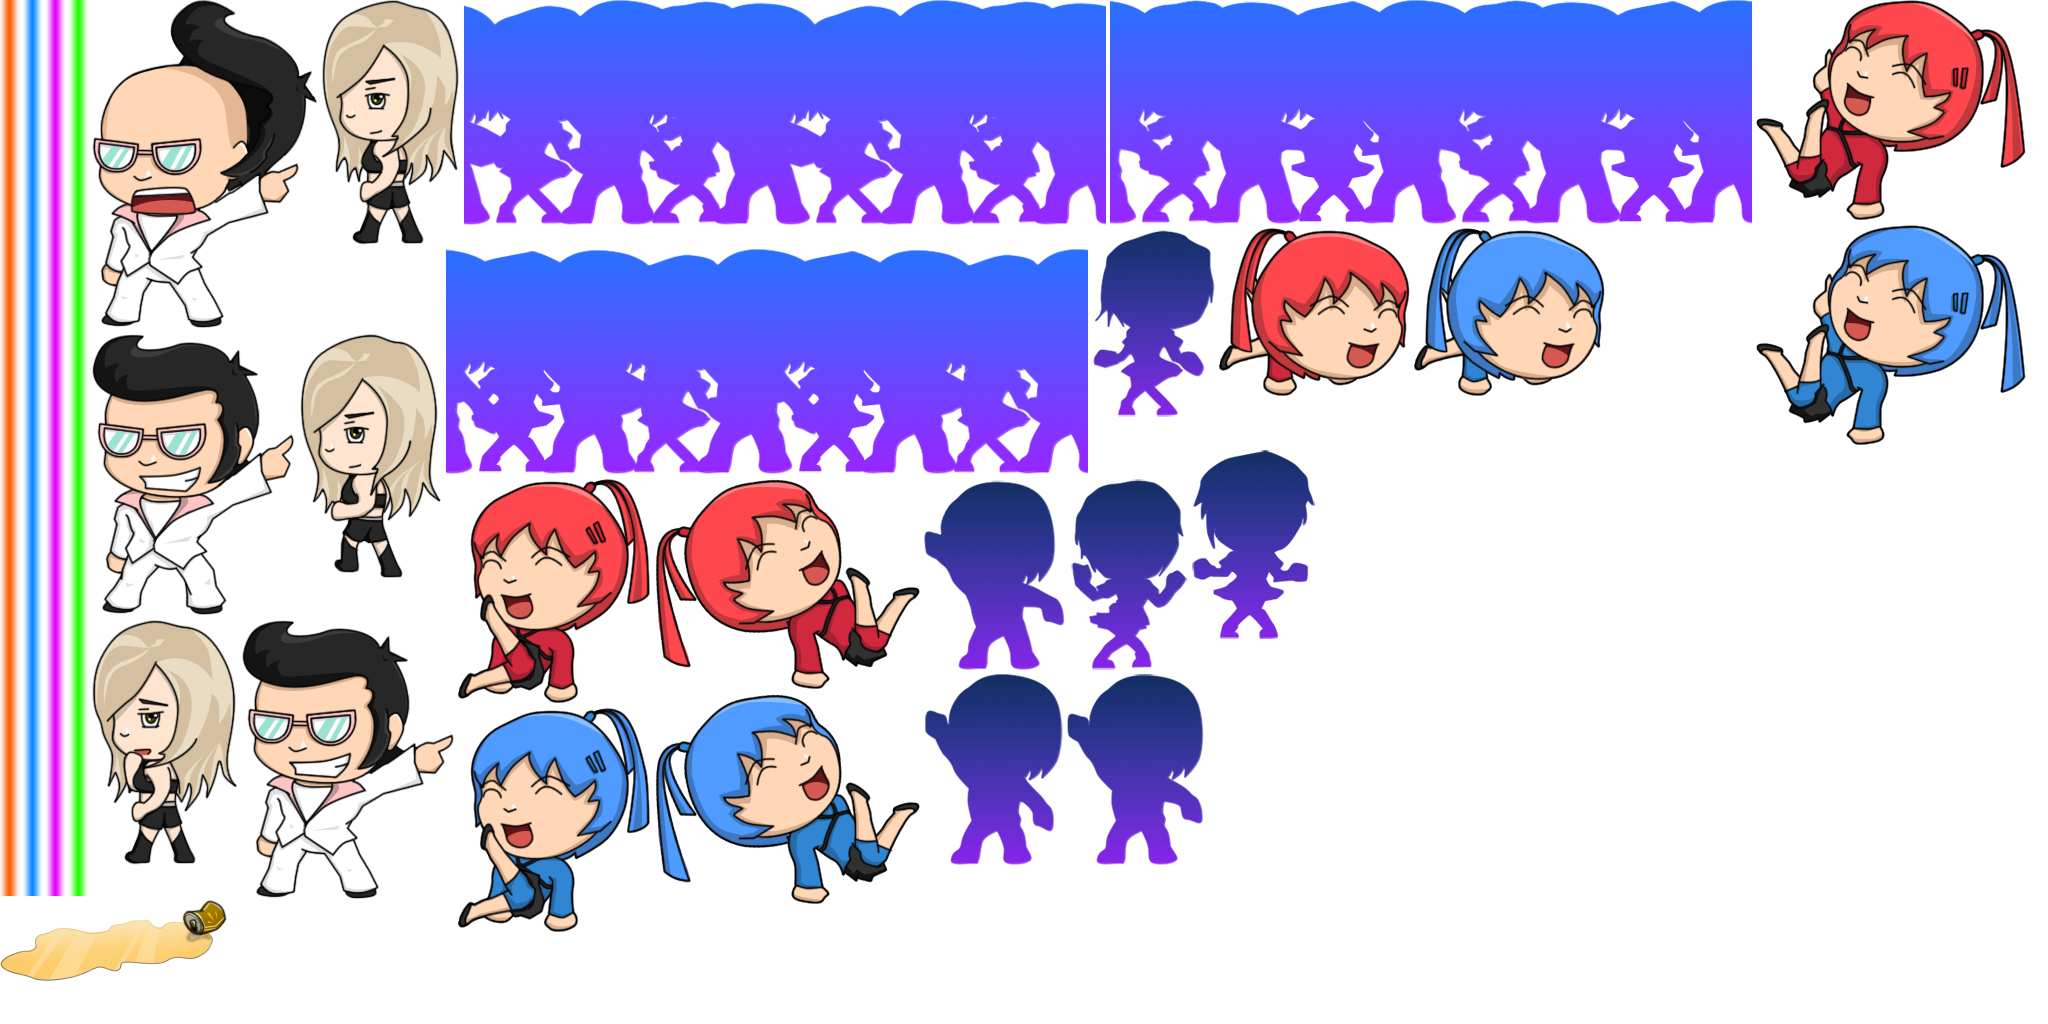
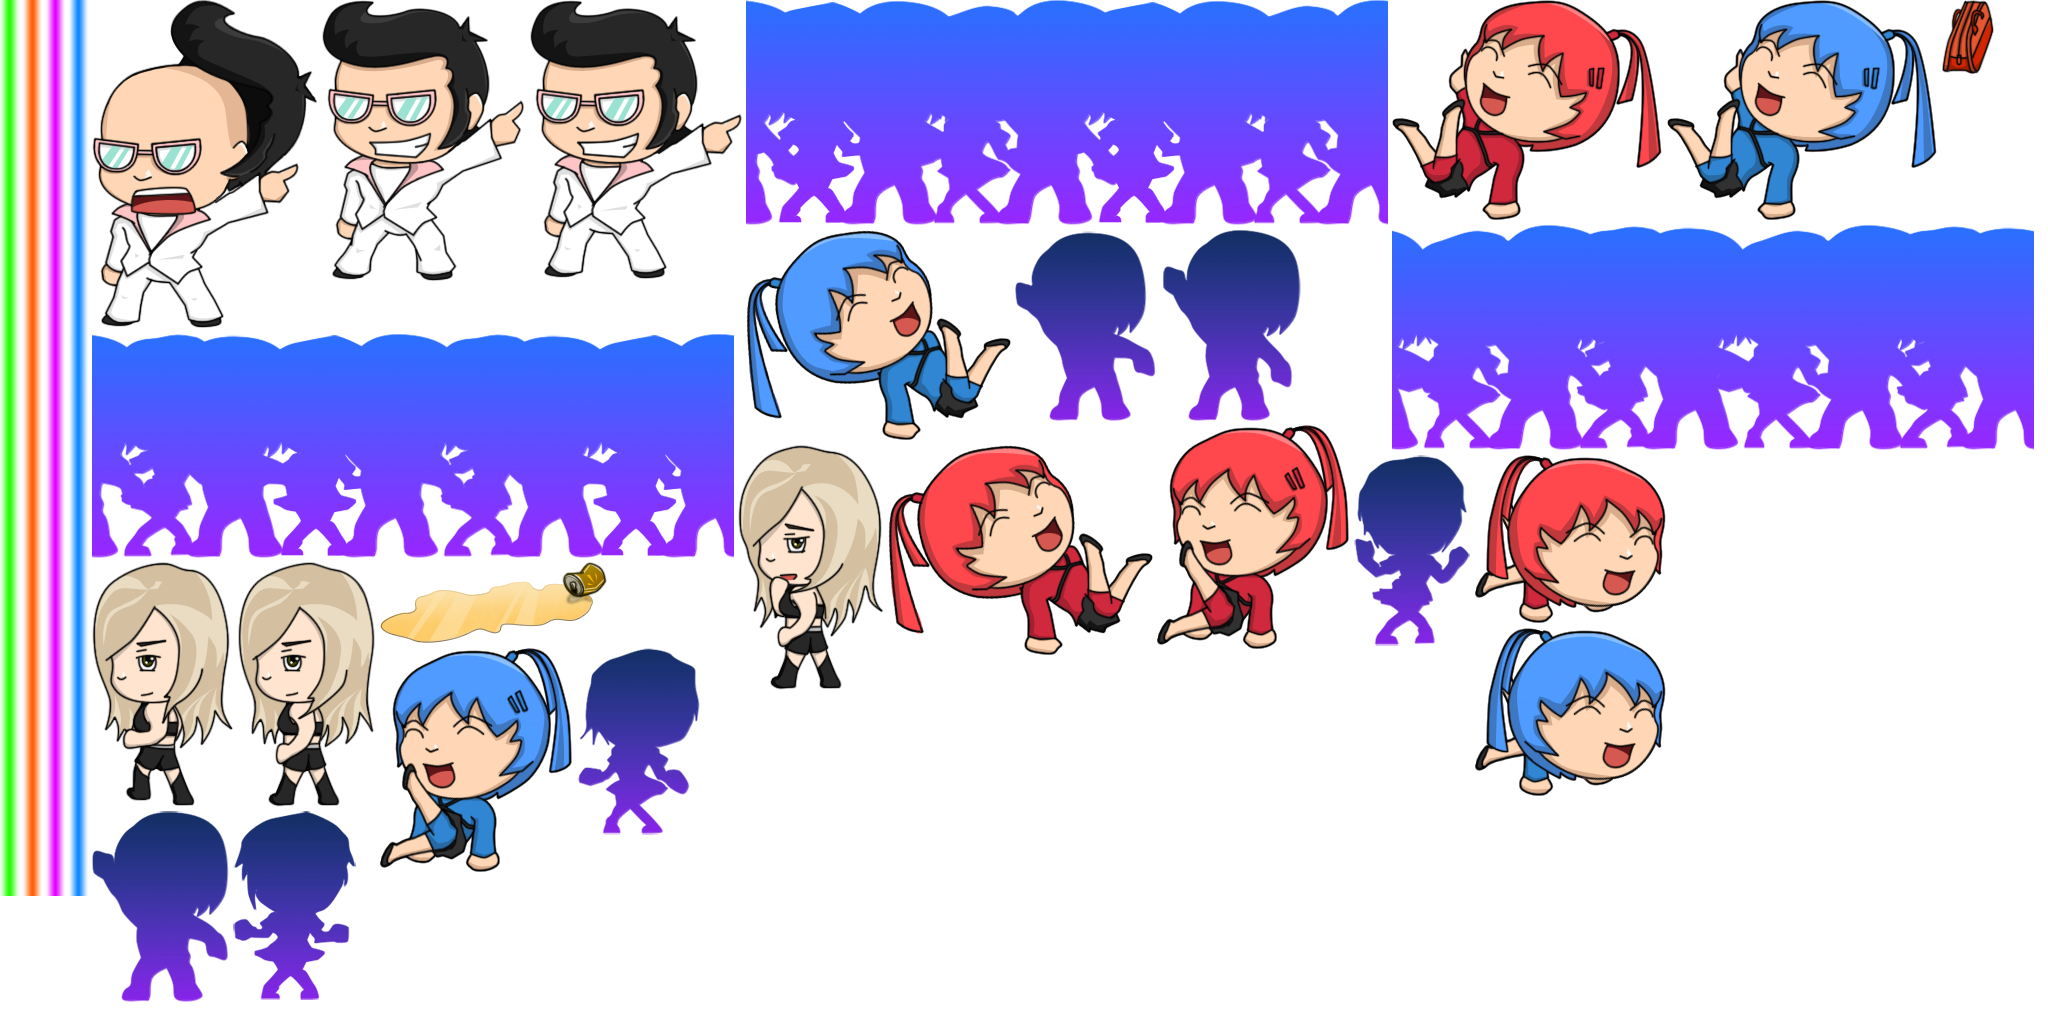
Added purse to level 4. Bounding box still not working.

diff --git a/Clay/Classes/Base/GCHelper.m b/Clay/Classes/Base/GCHelper.m
@@ -30,6 +30,7 @@ static GCHelper *sharedHelper = nil;
                 [[self alloc] initWithLeaderboardToReport:[NSMutableArray array] achievementsToReport:[NSMutableArray array]];
             }
         }
+        NSLog(@"shared GCHelper");
         return sharedHelper;
     }
     return nil;
@@ -47,10 +48,12 @@ static GCHelper *sharedHelper = nil;
 }
 
 -(void)save {
+    NSLog(@"gc - save");
     saveData(self, @"GameCenterData");
 }
 
 -(BOOL)isGameCenterAvailable {
+    NSLog(@"gc - isgamecenteravailable");
     // check for GKLocalPlayer API
     Class gcClass = (NSClassFromString(@"GKLocalPlayer"));
     
@@ -63,6 +66,7 @@ static GCHelper *sharedHelper = nil;
 }
 
 - (id)initWithLeaderboardToReport:(NSMutableArray *)theLeaderboardToReport achievementsToReport:(NSMutableArray *)theAchievementsToReport {
+    NSLog(@"gc - initwithleaderboardtoreport");
     if ((self = [super init])) {
         self.leaderboardToReport = theLeaderboardToReport;
         self.achievementsToReport = theAchievementsToReport;
@@ -78,6 +82,7 @@ static GCHelper *sharedHelper = nil;
 #pragma  mark Internal Functions
 
 - (void)authenticationChanged {
+    NSLog(@"gc - authenticationchanged");
     dispatch_async(dispatch_get_main_queue(), ^(void)
                    {
                        if ([GKLocalPlayer localPlayer].isAuthenticated && !userAuthenticated) {
@@ -93,6 +98,7 @@ static GCHelper *sharedHelper = nil;
 }
 
 -(void)sendAchievement:(GKAchievement *)achievement {
+    NSLog(@"gc - sendachievement");
    // achievement.percentComplete = 100.0;   //Indicates the achievement is done
     achievement.showsCompletionBanner = YES;    //Indicate that a banner should be shown
     [achievement reportAchievementWithCompletionHandler:^(NSError *error) {
@@ -108,6 +114,7 @@ static GCHelper *sharedHelper = nil;
     }];
 }
 -(void)sendScore:(GKScore *)score {
+    NSLog(@"gc - sendscore");
     [score reportScoreWithCompletionHandler:^(NSError *error) {
         dispatch_async(dispatch_get_main_queue(), ^(void)
                        {
@@ -122,6 +129,7 @@ static GCHelper *sharedHelper = nil;
 }
 
 -(void)resendData {
+    NSLog(@"gc - resenddata");
     for (GKAchievement *achievement in achievementsToReport) {
         [self sendAchievement:achievement];
     }
@@ -133,6 +141,7 @@ static GCHelper *sharedHelper = nil;
 #pragma mark User functions
 
 - (void)authenticateLocalUser {
+    NSLog(@"gc - authenticatelocaluser");
     if (!gameCenterAvailable) return;
     
     //NSLog(@"Authenticating local user...");
@@ -148,6 +157,7 @@ static GCHelper *sharedHelper = nil;
 }
 
 - (void)reportLeaderboard:(NSString *)identifier score:(float)rawScore {
+    NSLog(@"gc - reportleaderboard");
     GKScore *score=[[[GKScore alloc] initWithCategory:identifier] autorelease];
     score.value=rawScore;
     [leaderboardToReport addObject:score];
@@ -157,6 +167,7 @@ static GCHelper *sharedHelper = nil;
 }
 
 - (void)reportAchievement:(NSString *)identifier percentComplete:(double)percentComplete {
+    NSLog(@"gc - reportachievement");
     GKAchievement* achievement = [[[GKAchievement alloc] initWithIdentifier:identifier] autorelease];
     achievement.percentComplete = percentComplete;
     [achievementsToReport addObject:achievement];
@@ -169,6 +180,7 @@ static GCHelper *sharedHelper = nil;
 
 - (void) showLeaderboards
 {
+    NSLog(@"gc - showleaderboards");
     GKLeaderboardViewController *leaderboardController = [[GKLeaderboardViewController alloc] init] ;
     
     if (leaderboardController!=NULL) {
@@ -209,11 +221,13 @@ static GCHelper *sharedHelper = nil;
 #pragma mark NSCoding
 
 -(void)encodeWithCoder:(NSCoder *)encoder {
+    NSLog(@"gc - encodewithcoder");
     [encoder encodeObject:leaderboardToReport forKey:@"LeaderboardToReport"];
     [encoder encodeObject:achievementsToReport forKey:@"AchievementsToReport"];
 }
 
 -(id)initWithCoder:(NSCoder *)decoder {
+    NSLog(@"gc - initwithcoder");
     NSMutableArray * theLeaderboardToReport = [decoder decodeObjectForKey:@"LeaderboardToReport"];
     NSMutableArray * theAchievementsToReport = [decoder decodeObjectForKey:@"AchievementsToReport"];
     return [self initWithLeaderboardToReport:theLeaderboardToReport achievementsToReport:theAchievementsToReport];

diff --git a/Clay/Classes/Base/Camera.m b/Clay/Classes/Base/Camera.m
@@ -10,6 +10,7 @@
 #import "Sprite.h"
 #import "LevelManager.h"
 #import "Level.h"
+#import "Player.h"
 #import "GameSettings.h"
 
 @implementation Camera
@@ -40,6 +41,7 @@ static Camera *_sharedCamera = nil;
         CGSize size = [[CCDirector sharedDirector] winSize];
         _x = 0;
         _y = 0;
+        _vx = 0;
         _center = CGPointMake(size.width / 2.0f, size.height / 2.0f);
         _target = nil;
         
@@ -77,6 +79,9 @@ static Camera *_sharedCamera = nil;
     _precalculateBoundaryY = _boundary.origin.y;
     _precalculateBoundaryYplusBoundaryHeight = _boundary.origin.y + _boundary.size.height;
     
+    
+    _player = [[LayerManager sharedLayers] getPlayer];
+    
     [self keepWithinBoundaries];
     [self updateOnScreenRange];
 }
@@ -106,7 +111,7 @@ static Camera *_sharedCamera = nil;
     float left = _x - _center.x;
     float right = left + winSize.width;
     float bottom = _y - _center.y;
-    float top = bottom + winSize.height; 
+    float top = bottom + winSize.height;
     
     if(left < _boundary.origin.x) {
         _x = _boundary.origin.x + _center.x;
@@ -172,8 +177,45 @@ static Camera *_sharedCamera = nil;
     return (worldY - _y + _center.y);    
 }
 
+
+-(void)moveTowardsTargetNew:(float)dt
+{
+    //CGPoint position = [_target getPosition];
+    //float dx = (position.x - _x);
+    
+    //float speed = [_player getVelocityX];
+    
+    if(_trackingTarget) {
+        //_x = _target.
+    }
+    
+    /*
+    float distance = sqrtf(dx*dx);
+    if (distance > 0.1f) {
+        if (_trackingTarget) {
+            
+            if (dx > 0) {
+                _vx += 6.0f * dt;
+                _vx = MIN(40.0f, _vx);
+            } else {
+                _vx -= 6.0f * dt;
+                _vx = MAX(-40.0f, _vx);                
+            }
+            _x += _vx;         
+        }
+    } else {
+        if (_trackingTarget) {
+            _vx = 0.0f;
+            _x = position.x;            
+        }
+    }*/
+}
+
 -(void)moveTowardsTarget:(float)dt PlayerOnGround:(bool)onGround
 {
+    //[self moveTowardsTargetNew:dt];
+    //return;
+    
     float dx,dy;
     float magnitude;
     //float oldx = _x, oldy = _y;
@@ -218,7 +260,7 @@ static Camera *_sharedCamera = nil;
     
     [self updateOnScreenRange];
     
-    //NSLog(@"OX: %.2f, OY: %.2f, | NX: %.2f, NY: %.2f",oldx,oldy,_x,_ y]'''
+    //NSLog(@"OX: %.2f, OY: %.2f, | NX: %.2f, NY: %.2f",oldx,oldy,_x,_y);
     //NSLog(@"DX: %.2f, DY: %.2f MAG: %.2f",dx,dy,magnitude);
 }
 

diff --git a/Clay/Classes/Base/Camera.h b/Clay/Classes/Base/Camera.h
@@ -13,10 +13,12 @@
 
 @class Level;
 @class Sprite;
+@class Player;
 
 @interface Camera : NSObject
 {
     float _x;                   //x position of the camera
+    float _vx;
     float _y;                   //y position of the camera
     float _scale;               //scale for calculating positions of things
         
@@ -30,6 +32,8 @@
     
     bool _shouldMoveY;
     bool _trackingTarget;
+    
+    Player *_player;
     
     //precalcs for minor optimizations
     float _precalculateBoundaryYplusBoundaryHeight;

diff --git a/Clay/Classes/Base/SoundEngine.m b/Clay/Classes/Base/SoundEngine.m
@@ -28,7 +28,7 @@ static SoundEngine *_shared = nil;
     if (self) {
         // Initialization code here.
         
-        _enabled = false;
+        _enabled = true;
         
         _soundMode = SOUND_MODE_NORMAL;
         _masterMusicVolume = 1.0f;

diff --git a/Clay/Classes/Scenes/GameLayer.m b/Clay/Classes/Scenes/GameLayer.m
@@ -34,7 +34,7 @@
 #import "GCHelper.h"
 #import "CreditsScene.h"
 
-#define DEBUG_DRAW_BOUNDING_BOXES 0
+#define DEBUG_DRAW_BOUNDING_BOXES 1
 @interface GameLayer()
 
 -(void)setupLayers;
